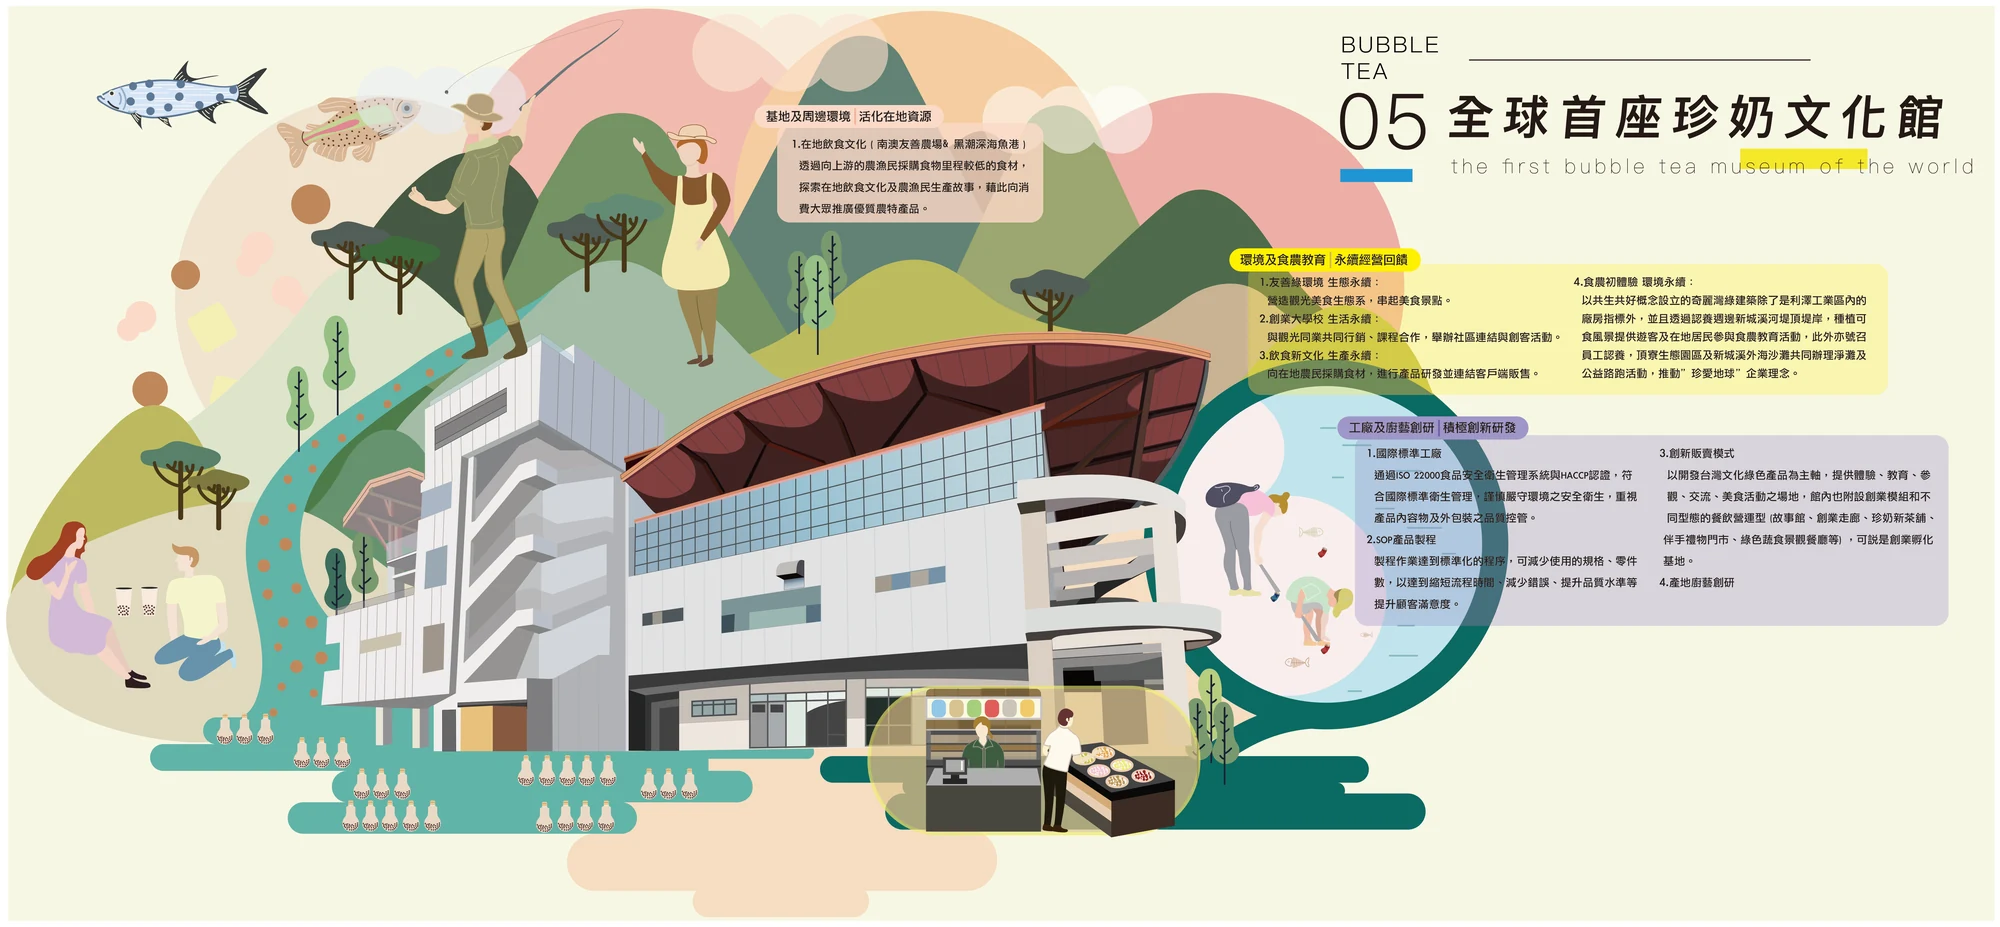
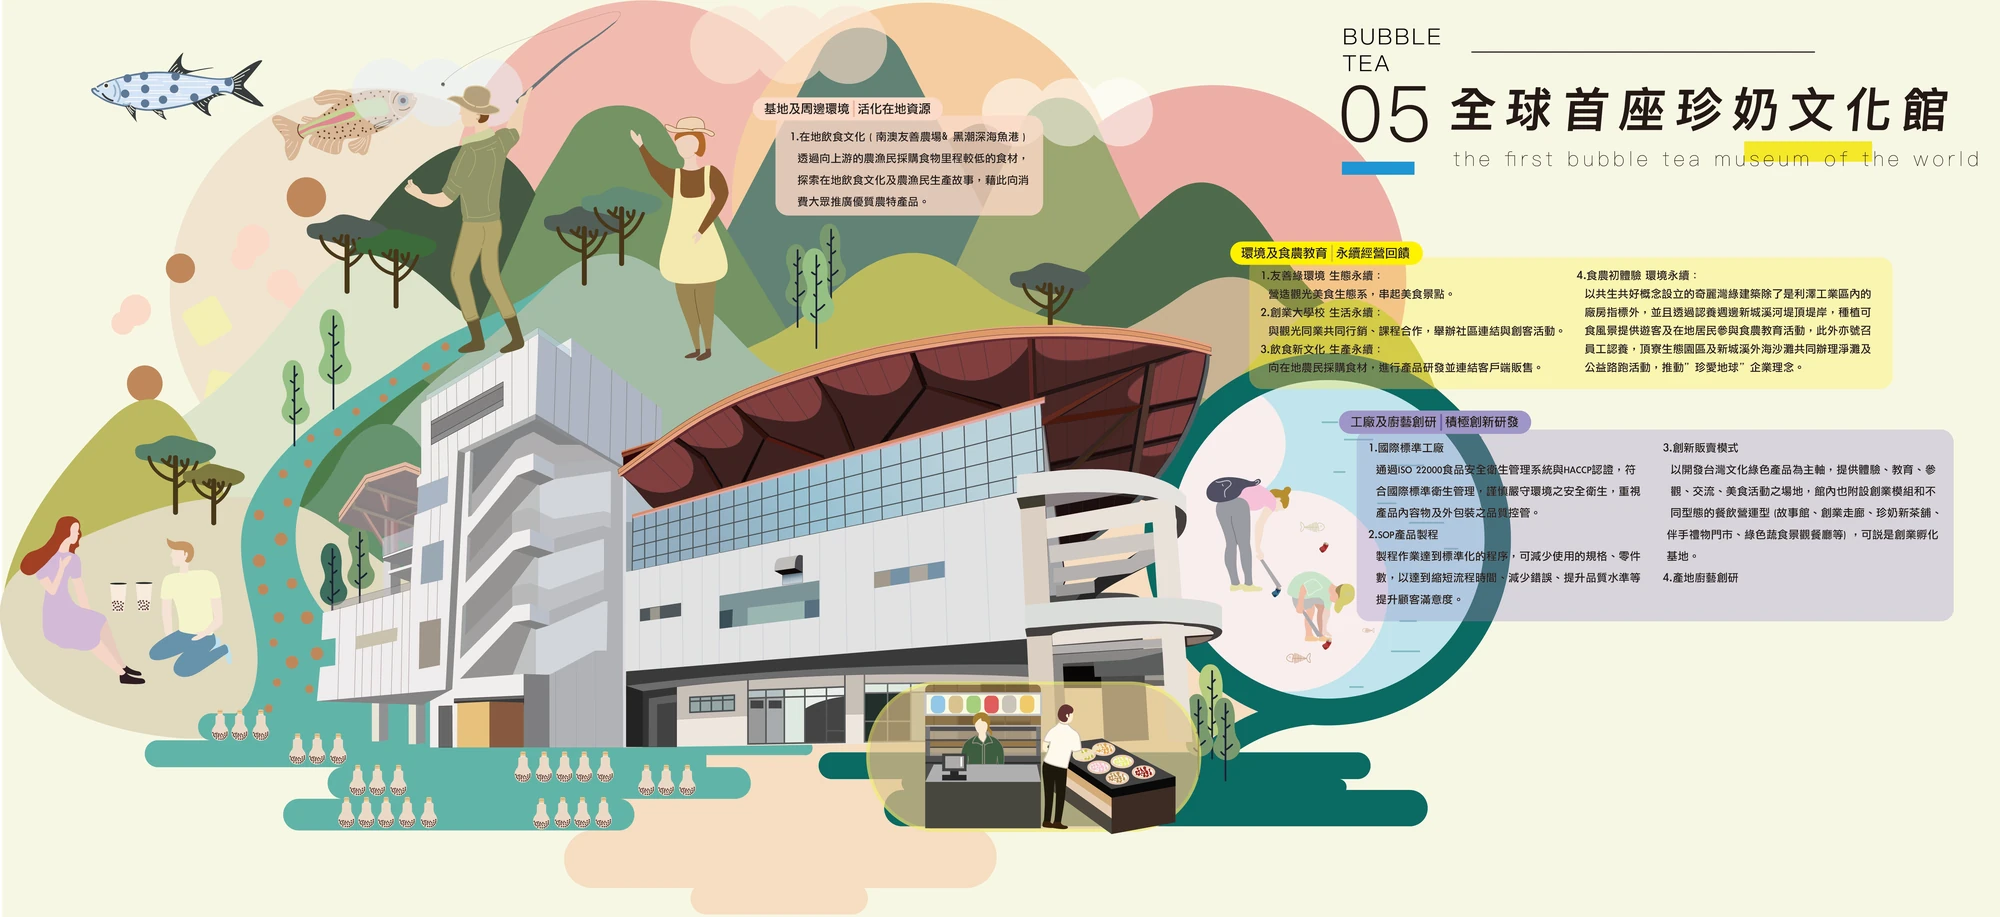
建材兩張還原原始底色；間隙標準字改縮內容、珍奶去白線、字級表間距統一
- 建材：上一版把右邊那張的灰底改成米色，那是動到作品本身。兩張都還原成
  各自原本的底色（#F0EBE7 與 #D9D9DB），不改色、不裁內容。
- 間隙標準字：圖寬恢復與其他大圖一致，改成在圖內縮小標誌、加大留白。
- 珍奶導覽圖：去掉四周那圈白線。
- Ocean 字級表：每條橫線上下的間距固定 54px。

diff --git a/visual-work.html b/visual-work.html
@@ -89,7 +89,7 @@
     <p class="vw-cap">延伸應用</p>
 
     <h3 class="vw-sub">字型</h3>
-    <img loading="lazy" decoding="async" width="2000" height="1034" src="assets/images/Visual Work/ocean-type-scale.webp" alt="Ocean Design 字級層級：英文 Times New Roman 搭配中文宋體，76–80pt、44–48pt、22–24pt、14–16pt 四級" class="vw-main">
+    <img loading="lazy" decoding="async" width="2000" height="1026" src="assets/images/Visual Work/ocean-type-scale.webp" alt="Ocean Design 字級層級：英文 Times New Roman 搭配中文宋體，76–80pt、44–48pt、22–24pt、14–16pt 四級" class="vw-main">
     <p class="vw-cap">字級層級：英文 Times New Roman 搭配中文宋體</p>
     <p>英文採用 Times New Roman，中文搭配宋體（明體），兩者筆畫調性一致；名片、信封與紙袋上的聯絡資訊同樣沿用這一組，布標上的「12」則改用無襯線體作為對比。</p>
 
@@ -122,7 +122,7 @@
     <h2 class="vw-item-title">間隙｜立體書</h2>
     <p class="vw-meta">插畫 · 紙藝 · 出版｜畢業製作</p>
     <p>此作品是以台灣特有種動物：帝雉、櫻花鉤吻鮭、水鹿、穿山甲、山椒魚等為主角的立體書。在本專案中我負責插畫與立體結構以及標準字與立體名片等延伸物。</p>
-    <img loading="lazy" decoding="async" width="2000" height="1414" src="assets/images/Visual Work/gap-wordmark.webp" alt="間隙立體書，標準字" class="vw-main is-logo">
+    <img loading="lazy" decoding="async" width="2000" height="1200" src="assets/images/Visual Work/gap-wordmark.webp" alt="間隙立體書，標準字" class="vw-main">
     <p class="vw-cap">標準字</p>
 
     <img loading="lazy" decoding="async" width="2000" height="1333" src="assets/images/Visual Work/gap-closed-book.webp" alt="間隙立體書，闔上的書" class="vw-main">
@@ -173,7 +173,7 @@
     <h2 class="vw-item-title">奇麗灣珍奶文化館｜展場導覽圖</h2>
     <p class="vw-meta">插畫 · 展場</p>
     <p>把南方澳深海魚港、南澳友善契作農場、環境及食農教育、產地廚藝創研與創新販賣模式五個區域，整合成一張插畫導覽圖，輸出為整牆主視覺背板。</p>
-    <img loading="lazy" decoding="async" width="2000" height="927" src="assets/images/Visual Work/chilliwan-exhibition-map.webp" alt="奇麗灣珍奶文化館，展場插畫導覽圖" class="vw-main">
+    <img loading="lazy" decoding="async" width="2000" height="917" src="assets/images/Visual Work/chilliwan-exhibition-map.webp" alt="奇麗灣珍奶文化館，展場插畫導覽圖" class="vw-main">
     <div class="vw-pair">
       <img loading="lazy" decoding="async" width="900" height="675" src="assets/images/Visual Work/chilliwan-site-empty.webp" alt="奇麗灣珍奶文化館，導覽圖輸出為整牆背板的現場" class="">
       <img loading="lazy" decoding="async" width="900" height="675" src="assets/images/Visual Work/chilliwan-site-people.webp" alt="奇麗灣珍奶文化館，導覽圖背板前的現場" class="">

diff --git a/index.html b/index.html
@@ -170,7 +170,7 @@
     </div>
     <a href="visual-work.html" class="work-card reveal">
       <div class="work-card-media is-wide">
-        <img loading="lazy" decoding="async" width="2000" height="927" src="assets/images/Visual Work/chilliwan-exhibition-map.webp" alt="Visual Work">
+        <img loading="lazy" decoding="async" width="2000" height="917" src="assets/images/Visual Work/chilliwan-exhibition-map.webp" alt="Visual Work">
       </div>
       <div class="work-card-meta">
         <div class="work-card-head">
